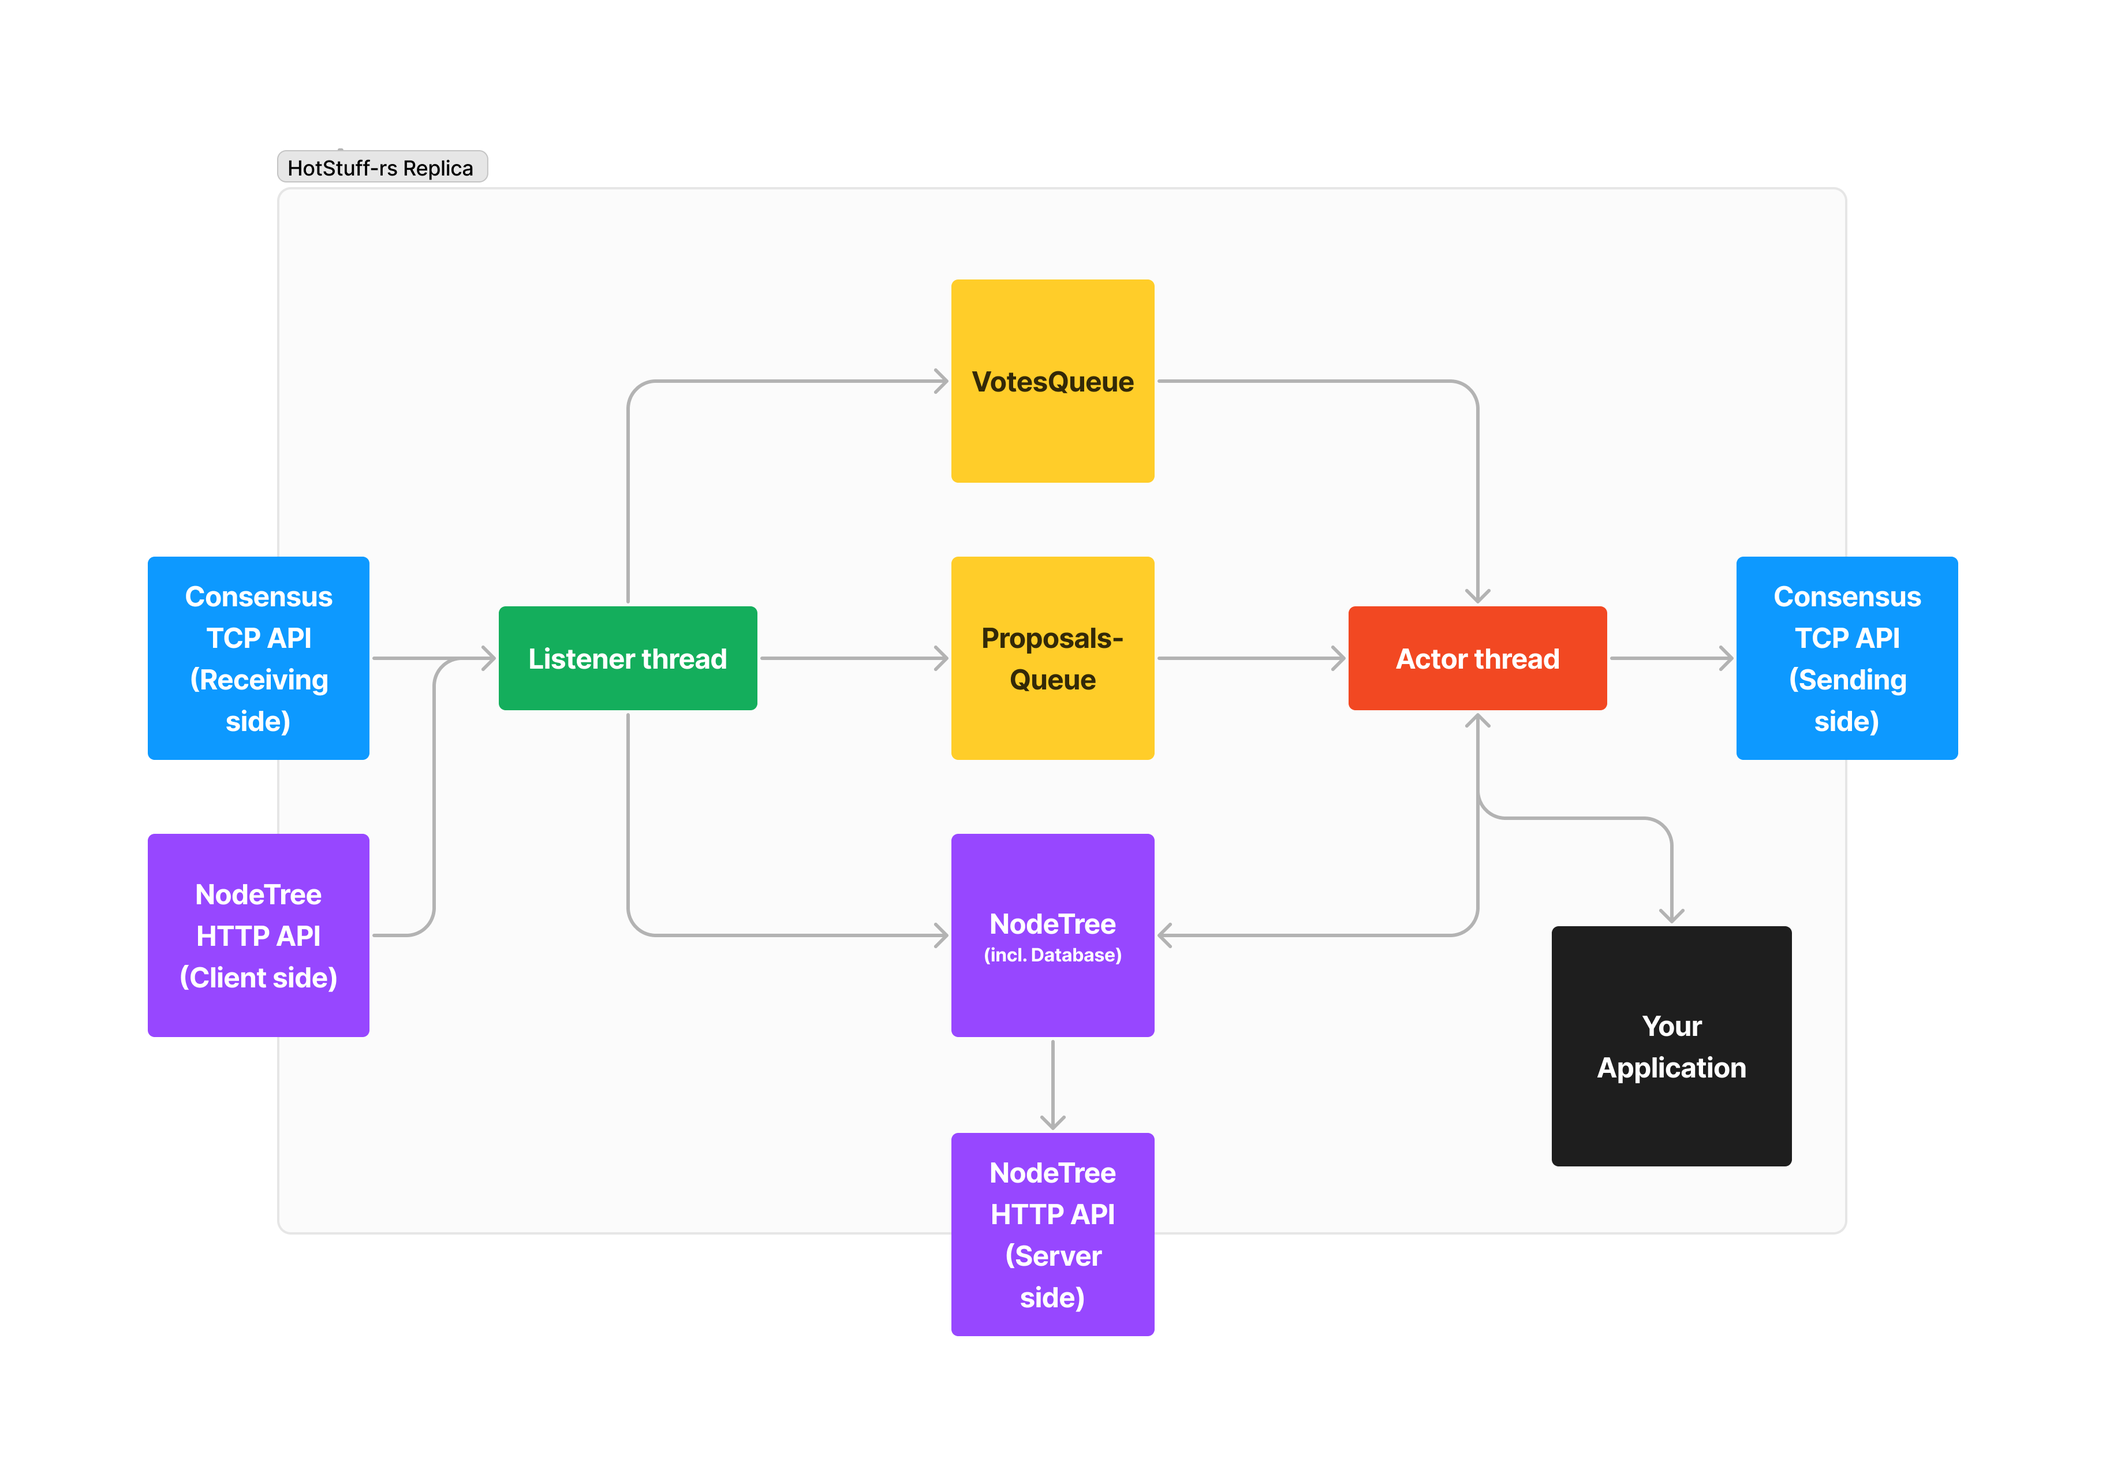
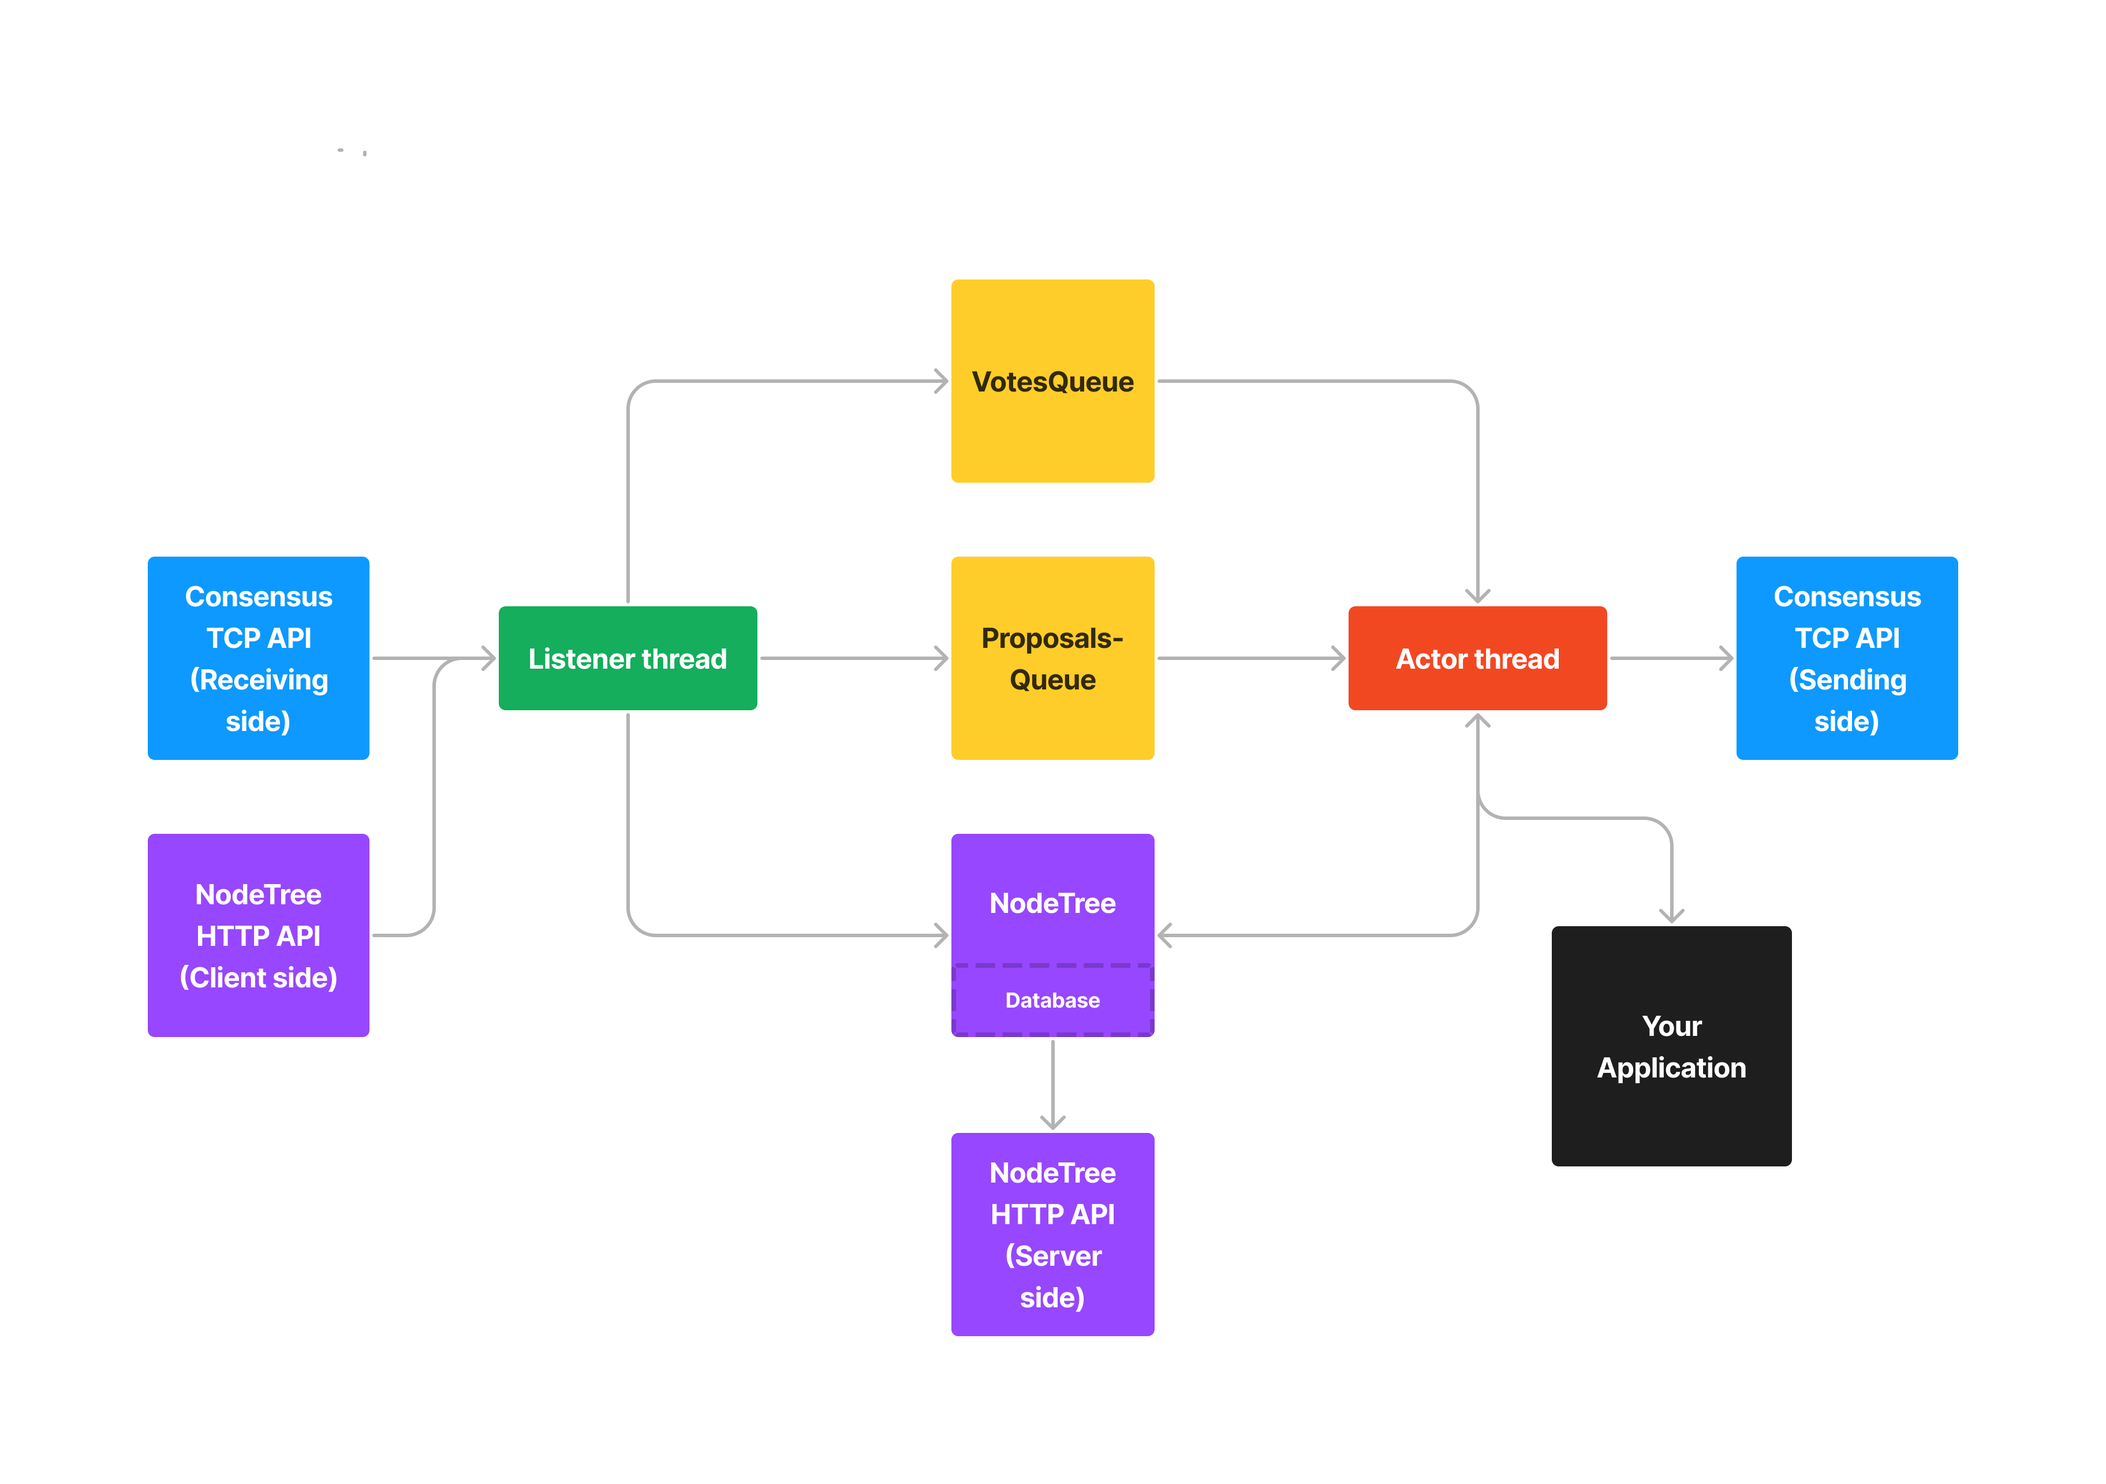
[WIP] FEATURE: high-level skeleton.

Changed region(s): [[0.4688, 0.5914, 0.5312, 0.6848], [0.125, 0.0934, 0.25, 0.1245]]

diff --git a/src/msg_queue.rs b/src/msg_queue.rs
@@ -1,0 +1,22 @@
+use std::thread;
+use std::collections::{HashMap, HashSet};
+use crate::types;
+
+type Proposal = types::ConsensusMsg;
+type Vote = types::ConsensusMsg;
+
+struct MsgQueue {
+    proposals: HashMap<types::ViewNumber, HashSet<Proposal>>,
+    votes: HashMap<types::ViewNumber, HashSet<Vote>>,
+    cleanup_thread: thread::JoinHandle<()>,
+}
+
+impl MsgQueue {
+    pub fn new() -> Self { todo!() }
+    pub fn insert_proposal(&mut self, view_number: types::ViewNumber, proposal: Proposal) { todo!() }
+    pub fn take_proposals(&mut self, view_number: types::ViewNumber) -> Option<Vec<Proposal>> { todo!() }
+    pub fn insert_vote(&mut self, view_number: types::ViewNumber, vote: Vote) { todo!() }
+    pub fn take_votes(&mut self, view_number: types::ViewNumber) -> Option<Vec<Vote>> { todo!() }
+
+    fn delete_if_less_than(&mut self, view_number: types::ViewNumber) { todo!() }
+}

diff --git a/src/networking/client.rs b/src/networking/client.rs
@@ -1,0 +1,21 @@
+use crate::types;
+
+pub struct Client;
+
+impl Client {
+    fn open(participants: types::ParticipantSet) -> Client { todo!() }
+    // For version 2: with dynamic ParticipantSets.
+    // fn update(&mut self, participants: types::ParticipantSet) { todo!() };
+}
+
+// Consensus TCP API.
+impl Client {
+    pub fn send(&self, to_participant: types::PublicKey, msg: types::ConsensusMsg) { todo!() } 
+    pub fn broadcast(&self, msg: types::ConsensusMsg) { todo!() } // This is non-blocking since we don't want to wait for an acknowledgement from a slow Participant.
+    pub fn read(&self) -> types::ConsensusMsg { todo!() } // This is blocking and discards any un-deserializable messages.
+}
+
+// Node Tree API.
+impl Client {
+    pub fn get_nodes(&self, starting_from: types::NodeHash) -> Option<Vec<types::Node>> { todo!() }
+}

diff --git a/src/node_tree.rs b/src/node_tree.rs
@@ -1,18 +1,14 @@
-struct NodeTree;
+use crate::types;
+use crate::Database;
 
-impl NodeTree {
-    fn insert_block(&self, block: Block, qc: QuorumCertificate) { todo!() }
-    fn insert_qc(&self, qc: QuorumCertificate) { todo!() }
-    fn insert_vote(&self, vote: Vote) { todo!() }
+pub struct NodeTree {
+    // Stores /only/ committed things.
+    database: Database,
 }
 
 impl NodeTree {
-    fn get_locked_qc(&self) -> QuorumCertificate { todo!() }
+    fn open() -> NodeTree { todo!() } 
+    fn insert_nodes(&mut self, nodes: &[types::ExecutedNode]) { todo!() }
+    fn get_locked_qc(&self) -> types::QuorumCertificate { todo!() }
+    fn get_prepare_qc(&self) -> types::QuorumCertificate { todo!() }
 }
-
-
-struct Item(Node, Writes);
-
-struct Node(QuorumCertificate);
-struct QuorumCertificate;
-struct Vote;

diff --git a/src/types.rs b/src/types.rs
@@ -1,0 +1,27 @@
+pub(crate) struct ExecutedNode(Node, WriteSet);
+
+pub struct Node(Command, QuorumCertificate);
+
+pub struct QuorumCertificate(ViewNumber, NodeHash, Signatures);
+
+pub(crate) enum ConsensusMsg {
+    Proposal(ViewNumber, Node),
+    Vote(ViewNumber, NodeHash, Signature),
+    NewView(ViewNumber, QuorumCertificate),
+}
+
+pub(crate) type WriteSet = Vec<(Vec<u8>, Vec<u8>)>;
+
+pub(crate) type ViewNumber = u64;
+
+pub(crate) type Command = Vec<u8>;
+
+pub(crate) type NodeHash = [u8; 32];
+
+pub(crate) type PublicKey = [u8; 32];
+
+pub(crate) type ParticipantSet = Vec<PublicKey>;
+
+pub(crate) type Signature = [u8; 64];
+
+pub(crate) type Signatures = Vec<Option<Signature>>;

diff --git a/src/listener.rs b/src/listener.rs
@@ -1,0 +1,17 @@
+use std::thread;
+use std::sync::{RwLock, RwLockReadGuard, RwLockWriteGuard};
+use crate::NodeTree;
+
+use Listener;
+
+impl Listener {
+    pub fn start() -> Listener { todo!() }
+
+    fn work() -> thread::JoinHandle<()> {
+        // Read from consensus_api::Handle.
+        
+        // Catch up using node_tree_api::Handle, if needed.
+
+        // Put into either ProposalQueue or VoteQueue.
+    }
+}

diff --git a/src/actor.rs b/src/actor.rs
@@ -1,0 +1,18 @@
+use std::thread;
+use std::sync::{RwLock, RwLockReadGuard, RwLockWriteGuard};
+use crate::NodeTree;
+
+struct Actor;
+
+impl Actor {
+    pub fn start() -> Actor { todo!() }
+
+    fn work() -> thread::JoinHandle<()> { 
+        // Setup.
+
+
+        // Leader.
+
+        // Replica.
+    }
+}

diff --git a/src/lib.rs b/src/lib.rs
@@ -1,5 +1,13 @@
-mod application;
+pub mod application;
 
-mod storage;
+mod database;
+use database::Database;
 
-mod node_tree;
+mod types;
+
+mod networking;
+
+mod msg_queue;
+
+pub mod node_tree;
+use node_tree::NodeTree;

diff --git a/src/networking/mod.rs b/src/networking/mod.rs
@@ -1,0 +1,5 @@
+mod client;
+
+mod consensus_api;
+
+mod node_tree_api;

diff --git a/src/database.rs b/src/database.rs
@@ -1,0 +1,1 @@
+pub(crate) struct Database;

diff --git a/src/networking/consensus_api.rs b/src/networking/consensus_api.rs
@@ -1,0 +1,1 @@
+struct Server;

diff --git a/src/networking/node_tree_api.rs b/src/networking/node_tree_api.rs
@@ -1,0 +1,1 @@
+struct Server;

diff --git a/README.md b/README.md
@@ -4,7 +4,12 @@ HotStuff-rs is a Rust Programming Language implementation of the HotStuff consen
 2. A small API (`Executor`) for plugging in state machine-based applications like blockchains, and
 3. Well-documented, 'obviously correct' source code.
 
-## The HotStuff Consensus Protocol
+## 1. Reading this document
+1. If you just want to *use* HotStuff-rs in your application:
+2. If you want to *understand* how HotStuff-rs works:
+3. If you want to *contribute* to HotStuff-rs' development:
+
+## 2. The HotStuff Consensus Protocol
 
 HotStuff works by building a 'NodeTree': a directed acyclic graph of Nodes. Node is a structure with a `command` field which applications are free to populate with arbitrary byte-arrays. In consensus algorithm literature, we typically talk of consensus algorithms as maintaining state machines that change their internal states in response to commands, hence, the choice of terminology.
 
@@ -21,20 +26,21 @@ The choice of third confirmation to define commitment--as opposed to first or se
 
 HotStuff is the first consensus algorithm with a simple leader-replacement algorithm that does not have a 'wait-for-N seconds' step, and thus can make progress as fast as network latency allows.
 
-## Major Components
+## 3. Overview of Major Components
 
 ![A graphic depicting the set of relationships between HotStuff-rs' components](./readme_assets/Components.png "Components")
 
-### Actor Thread
+### 3.1. Actor Thread
 
 The Actor Thread drives consensus forward by participating in the creation of new Nodes.
 
 Responsibilities:
-1. Create and propose new nodes (the 'Leader flow') in collaboration with your Application.
-2. Vote on newly proposed nodes (the 'Replica flow').
-3. Decide how long to stay in a current view.
+1. Decide whether to play 'Leader' or 'Replica' in the current View.
+2. Create and propose new nodes (in the '**Leader flow**') in collaboration with your Application.
+3. Vote on newly proposed nodes (in the '**Replica flow**').
+4. Decide how long to stay in the current View.
 
-### Listener Thread 
+### 3.2. Listener Thread 
 
 The Listener Thread ensures that the Actor Thread has all the information it needs to drive consensus forward.
 
@@ -44,43 +50,50 @@ Responsibilities:
 3. Identify messages that are 'from the *future*', e.g., `VOTEs` on Nodes that are *not yet* in NodeTree, and get missing nodes using the NodeTree HTTP API (Client side) and insert them into the **NodeTree**.
 4. Insert non-outdated `VOTEs` and `PROPOSALs` into **VotesQueue** and **ProposalsQueue** for eventual processing by the **Actor Thread**
 
-### NodeTree
+### 3.3. NodeTree
 
-The NodeTree maintains a constantly growing DAG of Nodes. As new Nodes are inserted into NodeTree, existing Nodes accumulate more and more confirmations. When an insertion causes an existing Node accumulates 3 confirmations, NodeTree automatically applies its World State mutations into persistent storage and abandons conflicting branches.
+The NodeTree maintains a constantly growing DAG of Nodes. As new Nodes are inserted into NodeTree, existing Nodes accumulate more and more confirmations. When an insertion causes an existing Node to accumulate 3 confirmations, NodeTree automatically applies its State mutations into its persistent Database and abandons conflicting branches.
 
-### ProposalsQueue
+### 3.4. ProposalsQueue
 
 A mapping between View Number and the `PROPOSAL` that the Listener Thread has received for that View Number (if it has received such a proposal). When the Actor Thread takes the proposal for a particular View Number, ProposalsQueue automatically drops all proposals for smaller View Numbers.
 
-### VotesQueue
+### 3.5. VotesQueue
 
 A mapping between View Number and the set of `VOTEs` that the Listener Thread has received for that View Number. When the Actor Thread takes the proposal for a particular View Number, VotesQueue automatically drops all votes for smaller View Numbers.
 
-### Consensus TCP API
+### 3.6. Consensus TCP API
 
 The Consensus TCP API carries `PROPOSE`, `VOTE`, and `NEW-VIEW` messages between Replicas. When all Nodes are up-to-date, this is the only HotStuff-rs network API that will see any traffic. 
 
-### NodeTree HTTP API
+### 3.7. NodeTree HTTP API
 
-The NodeTree HTTP API serves requests for Nodes in NodeTree. It is used by out-of-date Replicas to catch up to the head of the NodeTree.  
+The NodeTree HTTP API serves requests for Nodes in NodeTree. This is used by out-of-date Replicas to catch up to the head of the NodeTree.  
 
-### Your Application
+### 3.8. Your Application
 
-Anything that *you*, the HotStuff-rs user, can imagine. The Actor thread expects it to implement a trait `Application`.
+Anything that *you*, the HotStuff-rs user, can imagine. The Actor thread expects it to implement a trait `Application`. In summary, Applications must implement two methods:
 
-## Protocol Description 
+#### `propose(parent_node: Node, parent_state: State) -> (command: Vec<u8>, mutations: Vec<Vec<u8>, Vec<u8>>)`
+Called by the Actor Thread when this participant is Leader of this view to produce a new Node that extends from `parent_node`. 
 
-### Actor sequence flow 
+#### `approve(command: Vec<u8>, parent_node: Node, parent_state: State) -> bool`
+Called by the Actor Thread when this participant is a Replica in this view. This function decides whether or not the Actor thread votes for the node containing `command`.
 
-If, at any point in this sequence flow, a View timeout is triggered, jump to the **View timeout flow**.
+## 4. Protocol Description 
 
-#### Setup flow
+### 4.1. Actor Thread sequence flow
+
+If, at any point in this sequence flow, a View timeout is triggered, jump to the **OnViewTimeout**. The Actor thread begins with a jump to **Setup**.
+
+#### Setup 
 
 1. Get `prepare_qc` from the NodeTree.
-2. Compute the `leader` of View PrepareQC.view_number. 
-3. If `leader` is this HotStuff-rs Replica, jump to Leader flow, else, jump to **Replica flow**. 
+2. Set `cur_view_number` to the max of `prepare_qc` and `cur_view_number + 1`.
+3. Compute the `leader` of View PrepareQC.view_number. 
+4. If `leader` is this HotStuff-rs Replica, jump to Leader flow, else, jump to **Replica**. 
 
-#### Leader flow 
+#### Leader 
 
 1. Take a quorum of `votes` from VotesQueue.
 2. Aggregate `votes` into a `qc`. 
@@ -89,41 +102,73 @@ If, at any point in this sequence flow, a View timeout is triggered, jump to the
 5. Insert `node` into the local NodeTree.
 6. Send out a `PROPOSAL` `proposal` containing `node` to all replicas.
 7. Send out a `vote` for `proposal` to the leader of the next view.
-8. Jump to **Setup flow**.
+8. Jump to **Setup**.
 
-#### Replica flow
+#### Replica
 
 1. Take a `proposal` from ProposalQueue. 
-2. Call Application to execute `proposal.node.command`, if Application approves, continue, if Application disapproves, jump to **View timeout flow**.
+2. Call Application to execute `proposal.node.command`, if Application approves, continue, if Application disapproves, jump to **View**.
 3. Insert `proposal.node` into the local NodeTree.
 4. Send out a `VOTE` for `proposal` to the leader of the next view.
-5. Jump to **Setup flow**.
+5. Jump to **Setup**.
 
-#### View timeout flow
+#### OnViewTimeout 
 
 1. Send out a `NEW-VIEW` containing  `prepare_qc` to the leader of the next view.
-2. Jump to **Setup flow**.
+2. Jump to **Setup**.
 
-### View timeouts
-### Listener sequence flow 
+### 4.2. View timeouts
 
-### Consensus API Types
+View timeouts determine how long the Actor thread remains on a View before deciding that further progress at the current View is unlikely and moving onto the next View. 
+If View timeout is a constant and Participants' View Numbers become unsynchronized at any point in the protocol's lifetime, then Participants will never become synchronized at the same View ever again, preventing further progress. 
 
-#### **NODE(parent, command, justify)**
+In order to ensure that Participants eventually synchronize on the same View Number for long enough to make progress, the duration of a View timeout increases exponentially every time a timeout is triggered until some high, configurable limit. 
+
+### 4.3. Listener Thread sequence flow 
+
+The Listener Thread begins with a jump to **Receive**.
+
+#### Receive
+
+1. Receive `message` from Consensus TCP API.
+2. If `message.type` is `PROPOSAL`, jump to **ProcessProposal**, else if `message.type` is `VOTE`, jump to **ProcessVote**, else if `message.type` is `NEW-VIEW`, jump to **ProcessNewView**, else, jump to **Receive**. 
+
+#### ProcessProposal
+
+In this section, `proposal` is an alias for `message`.
+
+1. Check if `proposal.node.justify.node_hash` is in the NodeTree, if yes, continue, else call `CatchUpTo(node_hash). If the call succeeds, continue, else jump to **Receive**.
+2. Insert `proposal` into the ProposalsQueue.
+
+#### ProcessVote 
+
+In this section, `vote` is an alias for `message`.
+
+1. Check if `vote.node.justify.node_hash` is in the NodeTree, if yes, continue, else call `CatchUpTo(node_hash)`. If the call succeeds, continue, else jump to **Receive**.
+2. Insert `vote` into the VotesQueue.
+
+#### ProcessNewView
+
+In this section, `new_view` is an alias for `message`.
+
+#### subroutine CatchUpTo(node_hash) -> (success: bool)
+
+### 4.4. Consensus API Types
+
+#### **NODE(command, justify)**
 |Field |Type |Description |
 |---   |---  |---         |
-|parent |`NodeHash` | |
 |command |`Vec<u8>` | |
 |justify |`QC` | |
 
 ##### **NodeHash**
-SHA256Hash over `parent ++ command ++ justify ++ view_number`.
+SHA256Hash over `parent ++ command ++ justify`.
 
-#### **QC(view_num, node, sigs)**
+#### **QC(view_num, node_hash, sigs)**
 |Field |Type |Description |
 |---   |---  |---         |
 |view_num |`u64` | |
-|node |`NodeHash` | |
+|node_hash |`NodeHash` | |
 |sigs |`Vec<(PublicAddress, Signature)>` | |
 
 #### **Sig(public_address, signature)**
@@ -132,7 +177,7 @@ SHA256Hash over `parent ++ command ++ justify ++ view_number`.
 |public_address |`SHA256Hash` | |
 |signature |`Ed25519Signature`
 
-### Consensus API Messages
+### 4.5. Consensus API Messages
 
 #### **PROPOSE(view_number, node)**
 |Field |Type |Description |
@@ -140,11 +185,11 @@ SHA256Hash over `parent ++ command ++ justify ++ view_number`.
 |view_number |`u64` | |
 |node |`Node` | |
 
-#### **VOTE(view_num, node, sig)**
+#### **VOTE(view_num, node_hash, sig)**
 |Field |Type |Description |
 |---   |---  |---         |
 |view_num |`u64` | |
-|node |`NodeHash` | |
+|node_hash |`NodeHash` | |
 |sig |`Sig` | |
 
 #### **NEW-VIEW(view_num, high_qc)**
